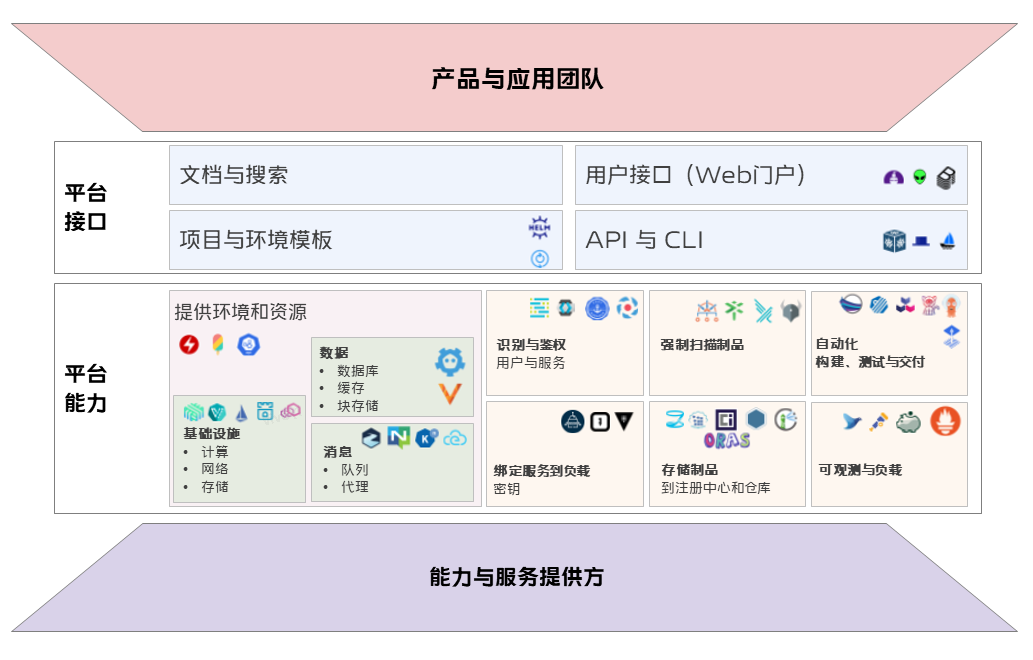
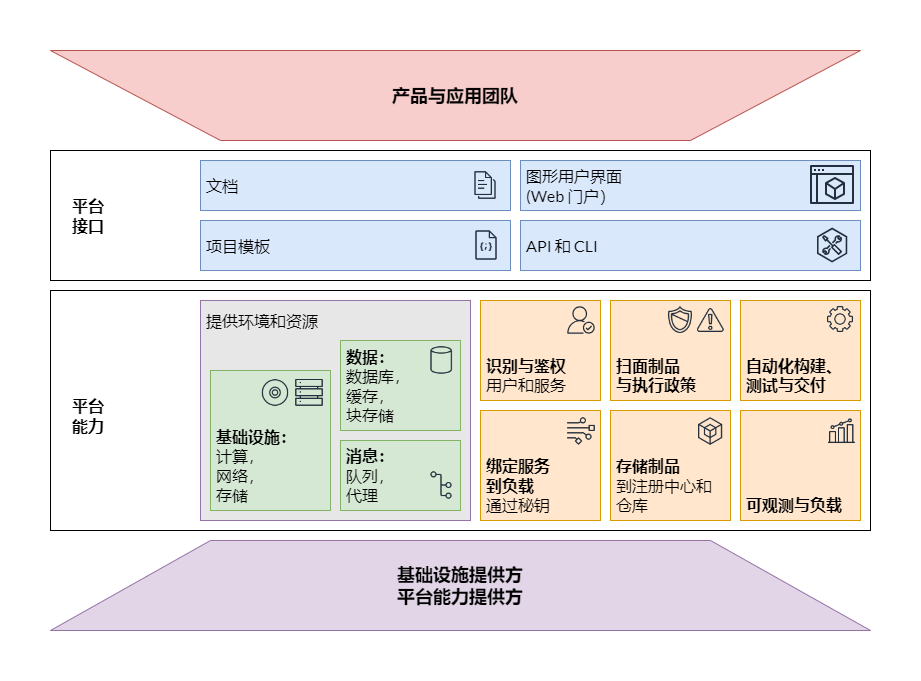
Update platform-def.drawio with Chinese version

diff --git a/website/content/zh/wgs/platforms/whitepaper/index.md b/website/content/zh/wgs/platforms/whitepaper/index.md
@@ -87,7 +87,7 @@ clouds and service providers for foundational but undifferentiated capabilities
 such as databases, identity access, infrastructure operations, and app
 lifecycle.
 
-## 平台是什么
+## 平台是什么？
 
 A platform for cloud-native computing is an integrated collection of
 capabilities defined and presented according to the needs of the platform's
@@ -372,7 +372,7 @@ other IT capabilities with an enterprise's value streams - its products. And so
 ultimately the success of an organization's products and applications are the
 true measure of the success of a platform.
 
-## 平台的功能
+## 平台能力
 
 As we've described, a platform for cloud-native computing offers and composes
 capabilities and services from many supporting providers. These providers may be
@@ -383,7 +383,7 @@ implement and enforce desired practices for security, performance, cost
 governance and consistent experience. The following graphic illustrates the
 relationships between products, platforms, and capability providers.
 
-<img src="assets/platform_components.png" width=600px />
+<img src="assets/platforms-def.drawio.png" width=600px />
 
 We've focused in this paper on how to construct a good platform and platform
 team; now in this last section we'll describe the capabilities a platform may
